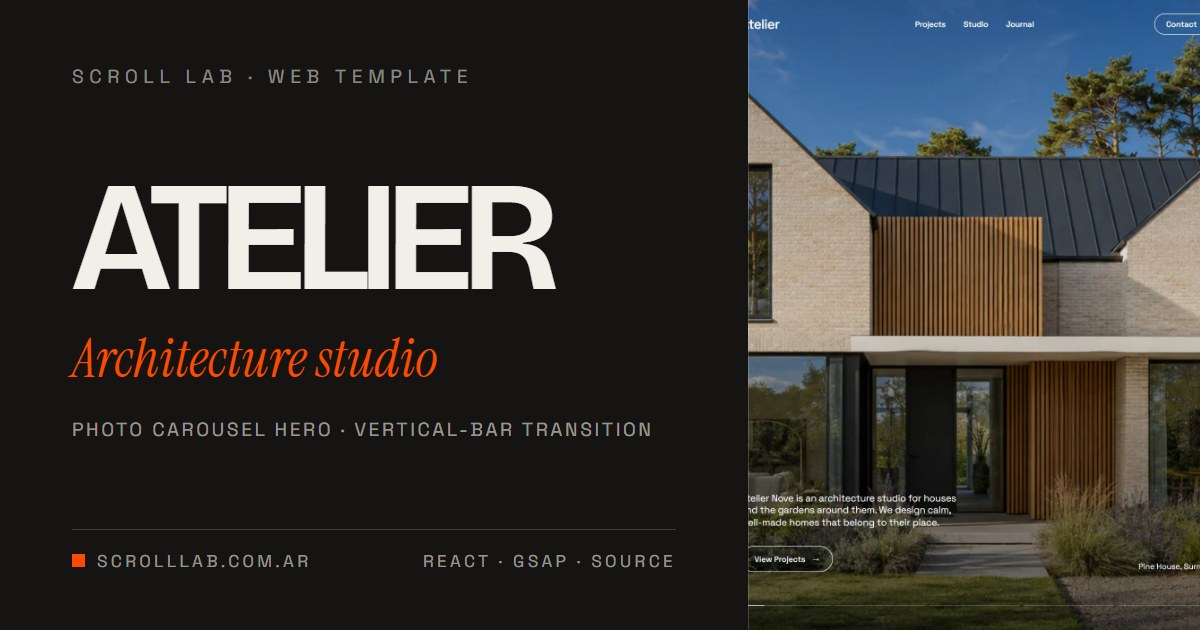
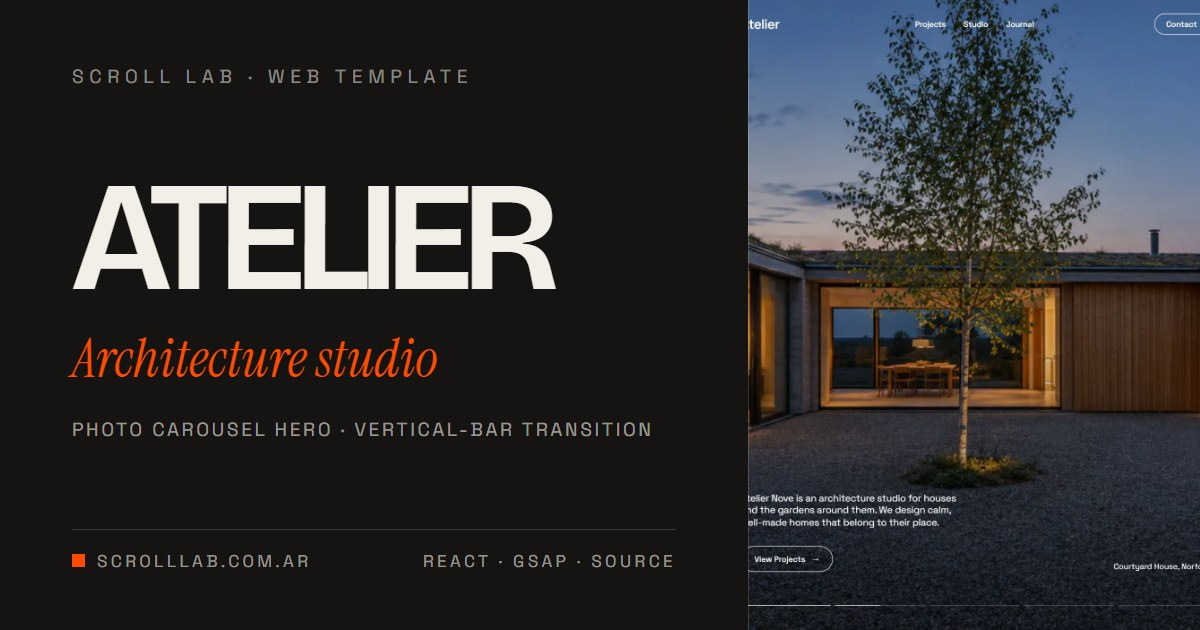
ATELIER: áreas de trabajo apiladas (la fila de atrás se apaga y se hunde), póster del catálogo nuevo

Changed region(s): [[0.6167, 0.0, 1.0, 1.0]]

diff --git a/src/components/sections/atelier/ServicesStone.jsx b/src/components/sections/atelier/ServicesStone.jsx
@@ -43,14 +43,18 @@ export default function ServicesStone({
 
   useGSAP(
     () => {
-      if (prefersReducedMotion()) return calmReveal('[data-area-row]', { y: 14, duration: 0.8 })
-      gsap.from('[data-area-row]', {
-        autoAlpha: 0,
-        y: 36,
-        duration: 0.9,
-        ease: 'power3.out',
-        stagger: 0.12,
-        scrollTrigger: { trigger: '[data-area-list]', start: 'top 80%' },
+      if (prefersReducedMotion()) return calmReveal('[data-area-row] > *', { y: 14, duration: 0.8 })
+      const rows = gsap.utils.toArray('[data-area-row]')
+      // Cada fila queda pegada arriba y la siguiente entra por encima: la de atrás
+      // se apaga (velo) y se hunde un poco, más lento que el scroll.
+      rows.slice(0, -1).forEach((row, i) => {
+        const next = rows[i + 1]
+        const tl = gsap.timeline({
+          defaults: { ease: 'none' },
+          scrollTrigger: { trigger: next, start: 'top bottom', end: 'top top', scrub: true },
+        })
+        tl.to(row.querySelector('[data-area-veil]'), { opacity: 0.32 }, 0)
+        tl.to(row.querySelector('[data-area-inner]'), { yPercent: -7, scale: 0.97 }, 0)
       })
       return undefined
     },
@@ -62,59 +66,75 @@ export default function ServicesStone({
       ref={root}
       id="expertise"
       data-tone="light"
-      className="px-5 py-24 md:px-8 md:py-36"
+      className=""
       style={{ backgroundColor: bg || '#ffffff', color: fg || '#111111' }}
     >
-      <div className="mx-auto max-w-[1500px]">
-        <header className="mb-14 grid gap-4 md:mb-24 md:grid-cols-12">
+      <div className="px-5 pt-24 pb-14 md:px-8 md:pt-36 md:pb-20">
+        <header className="grid gap-4 md:grid-cols-12">
           <p className="text-sm font-medium md:col-span-2">{eyebrow}</p>
           <h2 className="text-[clamp(2.2rem,6vw,5.4rem)] leading-[0.98] font-medium tracking-[-0.045em] md:col-span-10">
             {title}
           </h2>
         </header>
 
-        <ul data-area-list className="border-t border-current/20">
-          {items.map((a, i) => (
-            <li key={`${a.title}-${i}`} data-area-row className="group border-b border-current/20">
-              <a
-                href={a.href || '#projects'}
-                className="relative grid items-start gap-6 py-8 md:grid-cols-12 md:gap-8 md:py-12"
-                aria-label={`${a.title} — ${linkLabel}`}
-              >
-                <span className="text-sm font-medium tabular-nums md:col-span-1">{String(i + 1).padStart(2, '0')}</span>
-                <div className="md:col-span-5">
-                  <h3 className="text-[clamp(1.7rem,3.2vw,3rem)] leading-[1.02] font-medium tracking-[-0.04em]">
-                    {a.title}
-                  </h3>
-                  <p className="mt-5 max-w-[32rem] text-base leading-snug opacity-70 md:text-[1.05rem]">{a.body}</p>
-                  <span className="mt-6 inline-flex items-center gap-2 text-sm font-medium">
-                    <span className="tpl-link">{linkLabel}</span>
-                    <span aria-hidden="true" className="transition-transform duration-300 group-hover:translate-x-1">
-                      →
-                    </span>
-                  </span>
-                </div>
-                <div className="overflow-hidden md:col-span-3 md:aspect-[4/5] md:max-h-[26rem]">
-                  <img
-                    {...imgAttrs(a.img, variants)}
-                    sizes="(min-width: 768px) 25vw, 100vw"
-                    alt=""
-                    loading="lazy"
-                    decoding="async"
-                    className="aspect-[3/2] h-full w-full object-cover transition-transform duration-[900ms] ease-[cubic-bezier(0.22,1,0.36,1)] group-hover:scale-[1.06] md:aspect-auto"
-                  />
-                </div>
+      </div>
+
+      <ul data-area-list>
+        {items.map((a, i) => (
+          <li
+            key={`${a.title}-${i}`}
+            data-area-row
+            className="group relative sticky top-0 h-[92svh] min-h-[560px] overflow-clip border-t border-current/15 calm:static calm:h-auto"
+            style={{ backgroundColor: bg || '#ffffff' }}
+          >
+            <a
+              href={a.href || '#projects'}
+              data-area-inner
+              aria-label={`${a.title} — ${linkLabel}`}
+              className="relative grid h-full origin-top grid-rows-[auto_1fr] gap-x-8 px-5 py-8 will-change-transform md:grid-cols-2 md:grid-rows-1 md:px-8 md:py-12"
+            >
+              <div className="flex flex-col justify-between gap-6 md:h-full">
+                <h3 className="text-[clamp(1.9rem,3.4vw,3.4rem)] leading-[1.02] font-medium tracking-[-0.04em]">
+                  {a.title}
+                </h3>
                 <span
                   aria-hidden="true"
-                  className="hidden self-end text-right text-[clamp(5rem,13vw,12rem)] leading-[0.8] font-medium tracking-[-0.06em] opacity-[0.1] md:col-span-3 md:block"
+                  className="hidden text-[clamp(9rem,20vw,19rem)] leading-[0.72] font-medium tracking-[-0.06em] opacity-[0.1] md:block"
                 >
                   {i + 1}
                 </span>
-              </a>
-            </li>
-          ))}
-        </ul>
-      </div>
+              </div>
+              <div className="flex min-h-0 flex-col gap-6 md:gap-10">
+                <p className="max-w-[34rem] text-[clamp(1.05rem,1.7vw,1.6rem)] leading-[1.22] tracking-[-0.02em]">
+                  {a.body}
+                </p>
+                <div className="relative min-h-0 flex-1 overflow-hidden md:max-w-[62%]">
+                  <img
+                    {...imgAttrs(a.img, variants)}
+                    sizes="(min-width: 768px) 40vw, 100vw"
+                    alt=""
+                    loading="lazy"
+                    decoding="async"
+                    className="absolute inset-0 h-full w-full object-cover transition-transform duration-[900ms] ease-[cubic-bezier(0.22,1,0.36,1)] group-hover:scale-[1.05]"
+                  />
+                </div>
+                <span className="inline-flex items-center gap-2 text-sm font-medium">
+                  <span className="tpl-link">{linkLabel}</span>
+                  <span aria-hidden="true" className="transition-transform duration-300 group-hover:translate-x-1">
+                    →
+                  </span>
+                </span>
+              </div>
+            </a>
+            <div
+              data-area-veil
+              aria-hidden="true"
+              className="pointer-events-none absolute inset-0 opacity-0"
+              style={{ backgroundColor: fg || '#111111' }}
+            />
+          </li>
+        ))}
+      </ul>
     </section>
   )
 }
